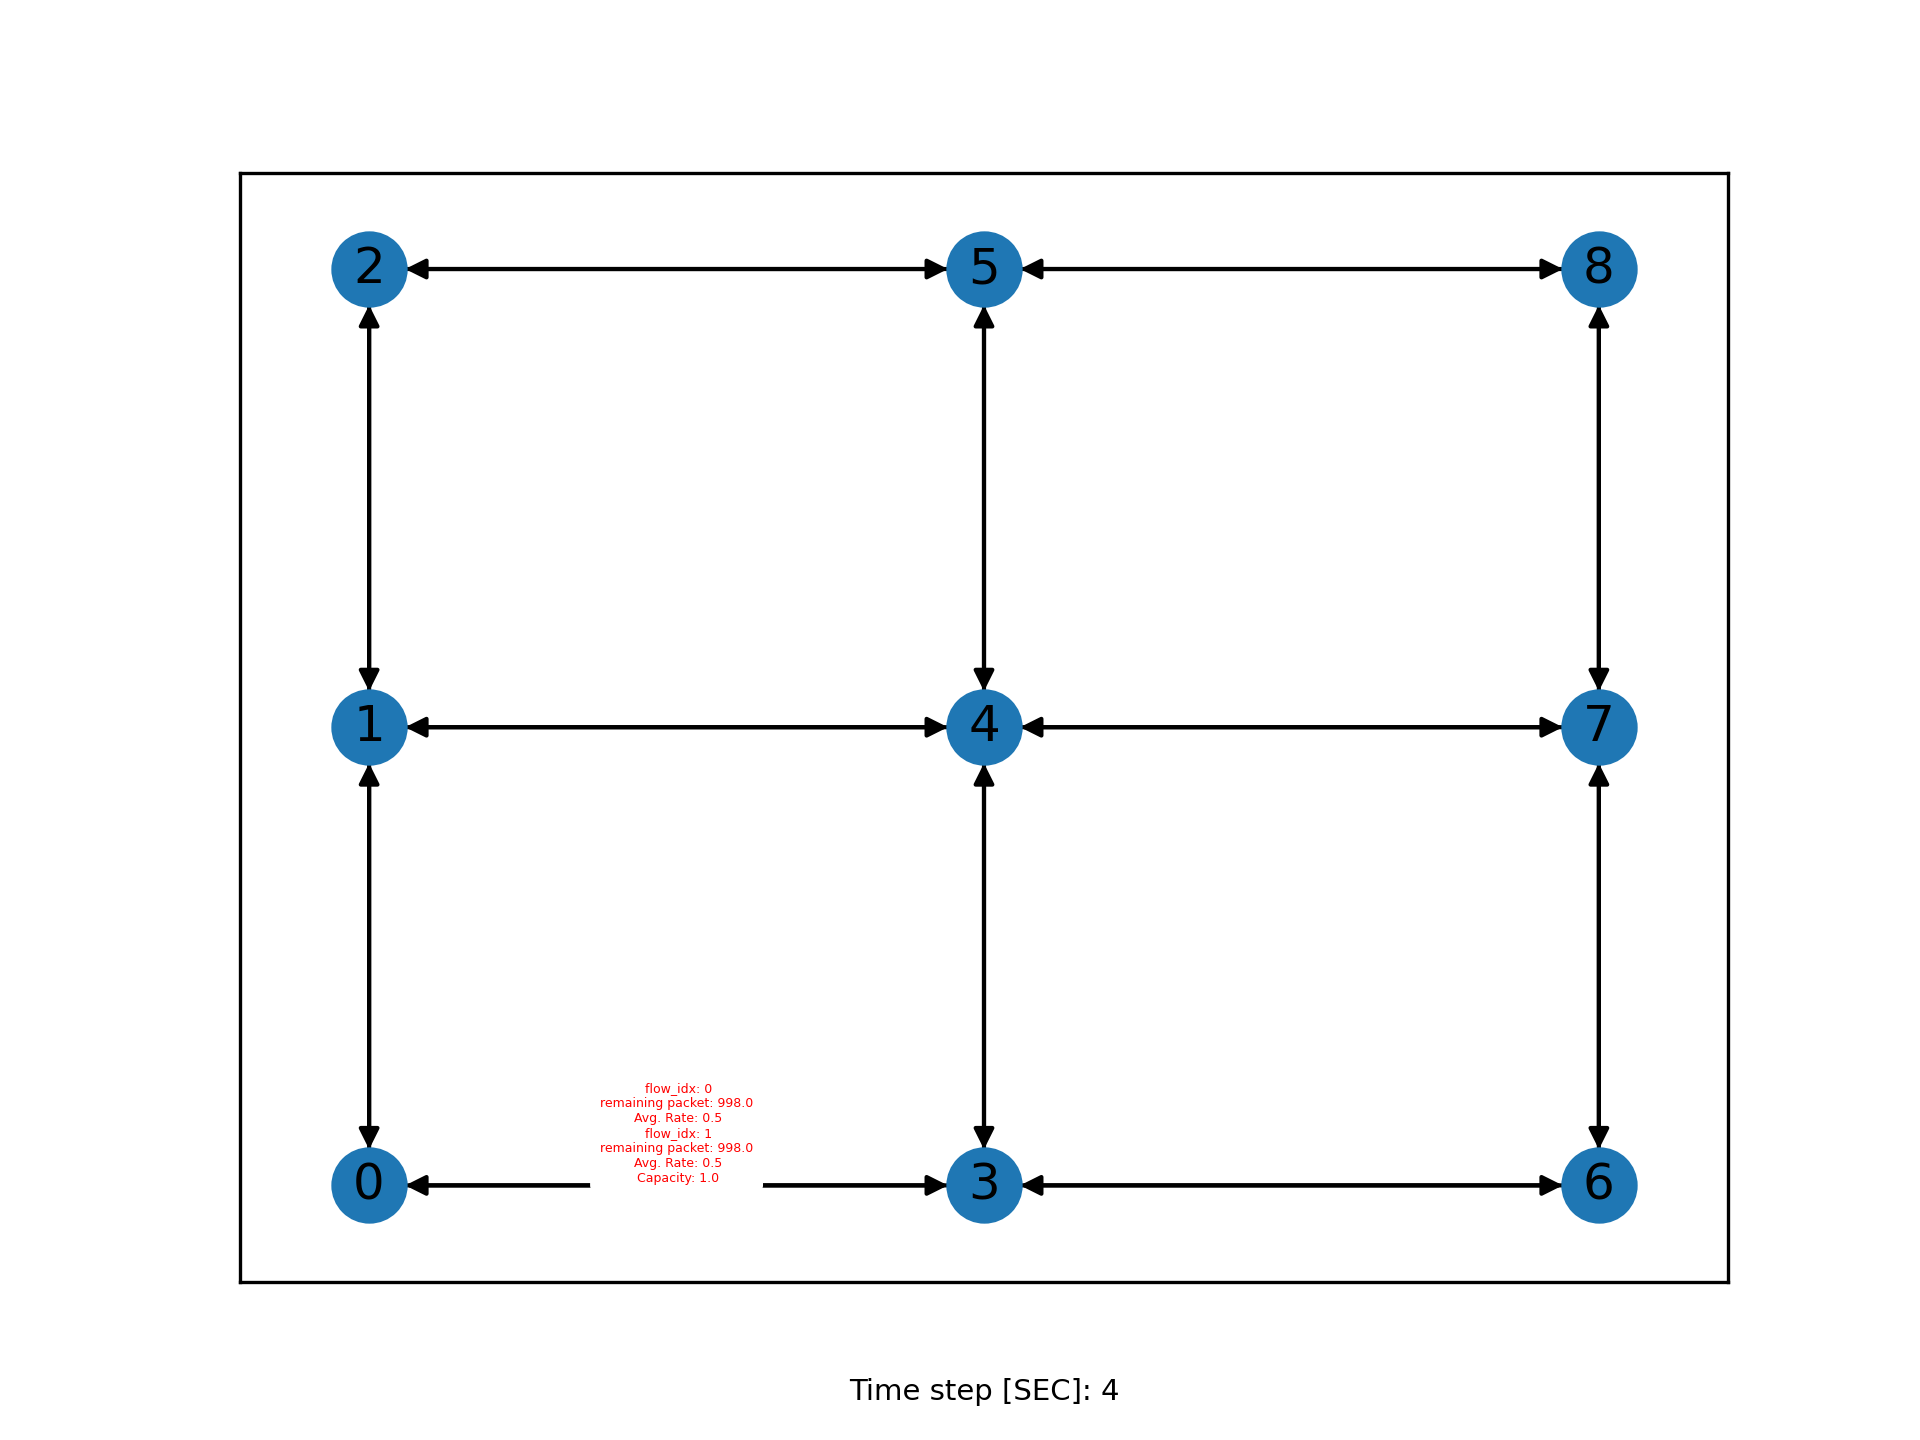
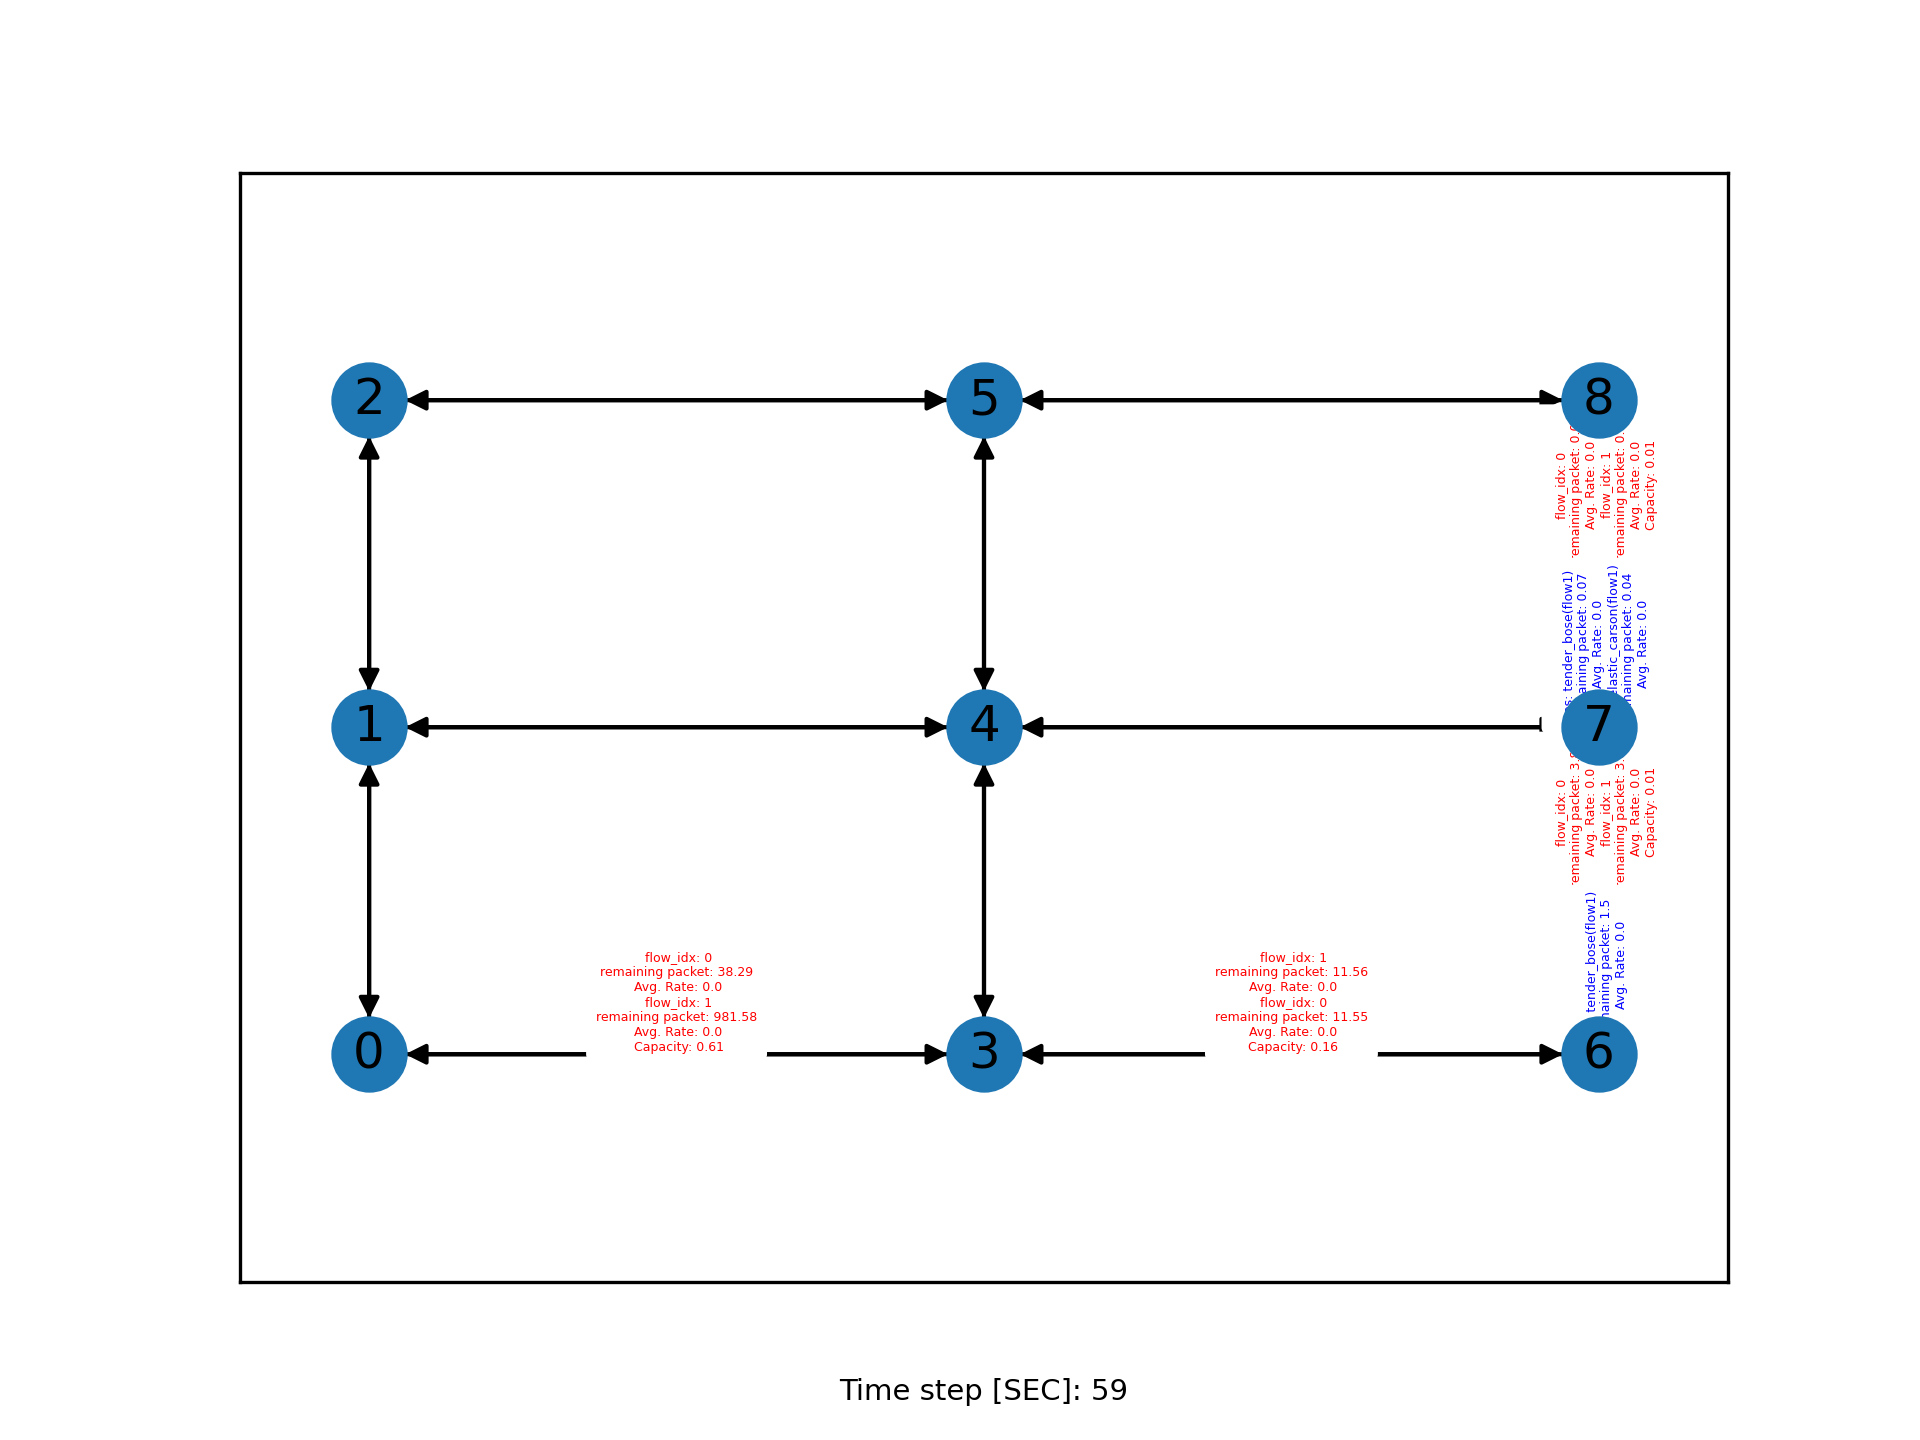
fixed more bug, set up Raz agent to make routs to see how it works

diff --git a/DIAMOND/environment/slotted_graph_env_power.py b/DIAMOND/environment/slotted_graph_env_power.py
@@ -267,13 +267,13 @@ class SlottedGraphEnvPower:
         """
         L = self.num_edges // 2
         power_mode = self.kwargs.get('trx_power_mode', 'equal')
-        assert power_mode in ('equal', 'rayleigh', 'rayleigh_gain', 'steps'), f'Invalid power mode. got {power_mode}'
+        assert power_mode in ('equal', 'rayleigh', 'rayleigh_gain', 'steps', 'gain'), f'Invalid power mode. got {power_mode}'
         channel_coeff = np.ones(L)
         channel_gain = np.ones(L)
         if 'rayleigh' in power_mode:
             channel_coeff = np.random.rayleigh(scale=self.kwargs.get('rayleigh_scale', 1), size=L)
         if 'gain' in power_mode:
-            channel_gain = self.kwargs.get('channel_gain', np.random.uniform(low=0.5, high=1, size=L)) * np.ones(L)
+            channel_gain = self.kwargs.get('channel_gain', np.random.uniform(low=0.1, high=10, size=L)) * np.ones(L)
         p_max = self.kwargs.get('max_trx_power', 1) * np.ones(L)
         trx_power = channel_gain * np.minimum(p_max, 1 / channel_coeff)  # P_l
         if power_mode == 'steps':
@@ -342,7 +342,8 @@ class SlottedGraphEnvPower:
         trx_power = self.trx_power[self.eids[s, d]]  # P_l
         self.current_link_interference += self.interference_map[self.eids[s, d]]  # I_l
         sinr = trx_power / (self.current_link_interference + 1)  # SINR_l
-        self.current_link_capacity = np.maximum(1, self.bandwidth_edge_list * np.log2(1 + sinr)) # np.minimum(self.bandwidth_edge_list, np.maximum(1, np.floor(self.bandwidth_edge_list * np.log2(1 + sinr))))
+        # self.current_link_capacity = np.maximum(1, self.bandwidth_edge_list * np.log2(1 + sinr)) # np.minimum(self.bandwidth_edge_list, np.maximum(1, np.floor(self.bandwidth_edge_list * np.log2(1 + sinr))))
+        self.current_link_capacity = self.bandwidth_edge_list * np.log2(1 + sinr) # np.minimum(self.bandwidth_edge_list, np.maximum(1, np.floor(self.bandwidth_edge_list * np.log2(1 + sinr))))
 
     def _transmit_singe_timestep(self, active_links , total_time_slots):
         """ send packet over all links in active_links for a single time-step """
@@ -517,7 +518,6 @@ class SlottedGraphEnvPower:
 
         # 3. plot & reset & save interferences for next global step
         if self.render_mode: 
-            # self.show_graph(next_active_links, total_time_slots, plot_rate)
             self.show_graph(active_links, total_time_slots, plot_rate)
         if next_active_links:
             #self.cumulative_link_interference += self.current_link_interference
@@ -571,7 +571,7 @@ class SlottedGraphEnvPower:
 
         total_time_stemp_in_single_slot = 0
         metadata = []
-        while active_links:
+        while True:
             # transmit single hop for all flows
             if total_time_stemp_in_single_slot < self.slot_duration: 
                 active_links, hop_metadata = self._transmit_singe_timestep(active_links, total_time_stemp_in_single_slot)
@@ -631,15 +631,15 @@ class SlottedGraphEnvPower:
                             flow_idx=flow_idx,
                             path=a['path'])
                 list_of_2flows.append(_2flows)
-            else: #flows finishes, append 0 packets
-                _2flows = dict(source=a['source'],
-                            destination=a['destination'],
-                            packets=0,
-                            time_constrain=10,
-                            flow_idx=flow_idx,
-                            path=a['path'])
-                list_of_2flows.append(_2flows)
-            #self.flows = list_of_2flows
+            # else: #flows finishes, append 0 packets
+            #     _2flows = dict(source=a['source'],
+            #                 destination=a['destination'],
+            #                 packets=0,
+            #                 time_constrain=10,
+            #                 flow_idx=flow_idx,
+            #                 path=a['path'])
+            #     list_of_2flows.append(_2flows)
+
             for res in _2res:
                 if res and res['packets'] > 0:
                     res = dict( source=res['link'][0],
@@ -700,10 +700,39 @@ class SlottedGraphEnvPower:
 
         return reward
 
-    def end_of_step_update(self):
-        self.allocated = []
+    def end_of_step_update(self,state):
+        '''
+        this function reset the part in state that is needed to be resets (demands) betwwen each time slot
+        and output data for our likings betwwens time slots
+        '''
         data = self.get_rates_data()
-        return data
+
+        self.allocated = []
+        # from time slot to time slot, we need to reset the demand observation
+        allocated = [False] * len(self.flows)
+        for i, a in enumerate(self.allocated):
+            allocated[a[0]] = True
+
+        allocated = [a[0] for a in self.allocated]
+        free_actions = list(set(range(len(self.flows))) - set(allocated)) # unassinged flows, EMPTY free_actions means we are in the last flow in the slot
+        free_paths = []
+        free_paths_idx = []
+        demand = []
+        for a in free_actions:
+            p = self.possible_actions[a]        #posible routs for unassigned flow a
+            free_paths_idx += [[a, k] for k in range(len(p))]
+            free_paths += p
+            demand += [self.flows[a]["packets"] for k in p]
+
+        # demand
+        if free_actions: # if we are not in the last time step of the time slot, than we can calculate the demand
+            normalized_demand = np.array(demand).astype(np.float32) / self.max_demand
+        else: # if we are in the last time step of the time slot, return initialzed demand
+            normalized_demand = None
+
+        new_state = state[0], state[1], free_paths, free_paths_idx, normalized_demand
+
+        return new_state,data
 
     def get_delay_data(self):
         data = self.routing_metrics.get('delay')
@@ -772,7 +801,7 @@ class SlottedGraphEnvPower:
             allocated[a[0]] = True
 
         allocated = [a[0] for a in self.allocated]
-        free_actions = list(set(range(len(self.flows))) - set(allocated)) # unassinged flows
+        free_actions = list(set(range(len(self.flows))) - set(allocated)) # unassinged flows, EMPTY free_actions means we are in the last flow in the slot
         free_paths = []
         free_paths_idx = []
         demand = []
@@ -783,8 +812,10 @@ class SlottedGraphEnvPower:
             demand += [self.flows[a]["packets"] for k in p]
 
         # demand
-        #normalized_demand = np.array(demand).astype(np.float32) / self.max_demand
-        normalized_demand =  np.array([10000, 10000, 10000, 10000]).astype(np.float32) / 10000
+        if free_actions: # if we are not in the last time step of the time slot, than we can calculate the demand
+            normalized_demand = np.array(demand).astype(np.float32) / self.max_demand
+        else: # if we are in the last time step of the time slot, return initialzed demand
+            normalized_demand = None
 
         # if self.tf_env:
         #     return self.__get_tf_state()
@@ -804,7 +835,7 @@ class SlottedGraphEnvPower:
 
         # There is am option to output the residuals from previous time slot (prev_residuals)
         return observation
-
+    
     def step(self, action, eval_path=False):
         """
         action = (flow_idx, channels_per_link)

diff --git a/DIAMOND/test/inference_vs_competitors_simple.py b/DIAMOND/test/inference_vs_competitors_simple.py
@@ -63,13 +63,13 @@ if __name__ == "__main__":
                   [0, 0, 0, 1, 0, 0, 0, 1, 0],
                   [0, 0, 0, 0, 1, 0, 1, 0, 1],
                   [0, 0, 0, 0, 0, 1, 0, 1, 0]])
-    
-    
-    P = [(0, 0), (0, 100.1), (0, 200.2),
-         (100.1, 0), (100.1, 100.1), (100.1, 200.2),
-         (200.2, 0), (200.2, 100.1), (200.2, 200.2)]
 
-    # capacity matrix
+    
+    P = [(0.0, 0), (0.0, 0.01), (0.0, 0.02),
+         (0.1, 0), (0.1, 0.01), (0.1, 0.02),
+         (0.2, 0), (0.2, 0.01), (0.2, 0.02)]
+
+    # BW matrix
     C = 1 * np.ones((N, N))
     #------------------------------------------------------------------------
 
@@ -79,8 +79,10 @@ if __name__ == "__main__":
 
     # flow demands
     F = [
-        {"source": 0, "destination": 3, "packets": 1000, "time_constrain": 10 , 'flow_idx': 0 }, #Packets [MegaBytes]
-        {"source": 0, "destination": 3, "packets": 1000, "time_constrain": 10, 'flow_idx': 1}
+        {"source": 0, "destination": 8, "packets": 55, "time_constrain": 10 , 'flow_idx': 0 }, #Packets [MegaBytes]
+        {"source": 0, "destination": 8, "packets": 1000, "time_constrain": 10, 'flow_idx': 1}#, #Packets [MegaBytes]
+        # {"source": 0, "destination": 8, "packets": 1, "time_constrain": 10, 'flow_idx': 2}, #Packets [MegaBytes]
+        # {"source": 0, "destination": 8, "packets": 1000, "time_constrain": 10, 'flow_idx': 3}
     ]
 
     slotted_env = SlottedGraphEnvPower( adjacency_matrix=A,
@@ -91,9 +93,11 @@ if __name__ == "__main__":
                                         reward_weights=reward_weights,
                                         telescopic_reward = True,
                                         direction = 'minimize',
-                                        slot_duration=5,          # [in SEC]
+                                        slot_duration=60,          # [in SEC]
                                         Tot_num_of_timeslots = 60, # [in Minutes]
-                                        render_mode = True)
+                                        render_mode = True,
+                                        trx_power_mode='gain',
+                                        channel_gain = 100)
 
     slotted_diamond = SlottedDIAMOND(grrl_model_path=MODEL_PATH)
     

diff --git a/DIAMOND/stage1_grrl/agent.py b/DIAMOND/stage1_grrl/agent.py
@@ -148,10 +148,10 @@ class SlottedGRRL:
                 # TODO allocate residual flows to graph each flow in the MDP all over again
                 a = self._select_action(state, env.possible_actions[step])
                 # action = manual_actions[step] #action = [step, a]
-                action = action = [step, a] 
+                action = [step, a] 
                 actions.append(action)
                 paths.append(env.possible_actions[action[0]][action[1]])
                 state, r = env.step(action)
                 reward += r
-            env.end_of_step_update()
+            state,data = env.end_of_step_update(state)
         return actions, paths, reward
